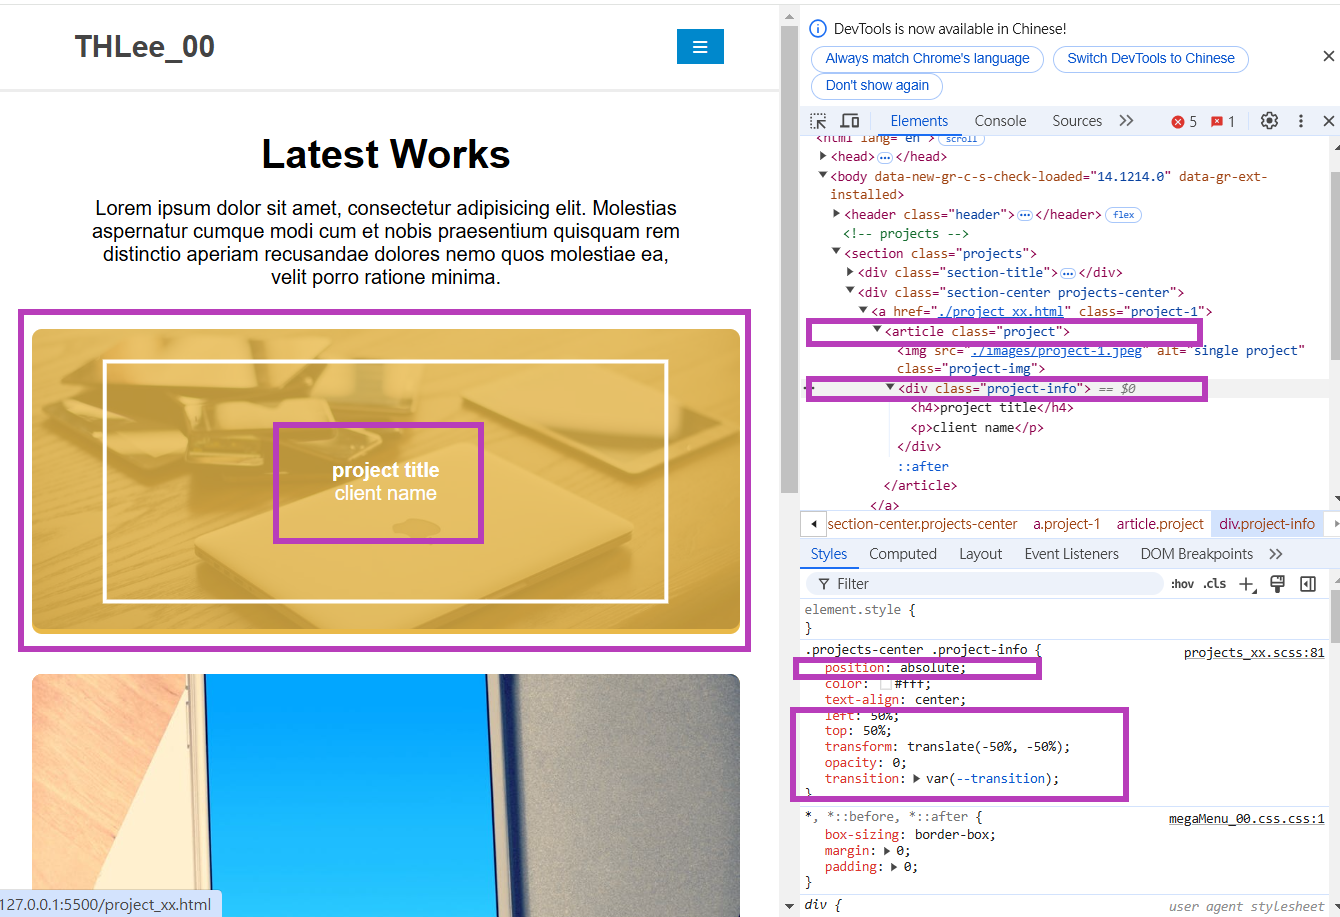
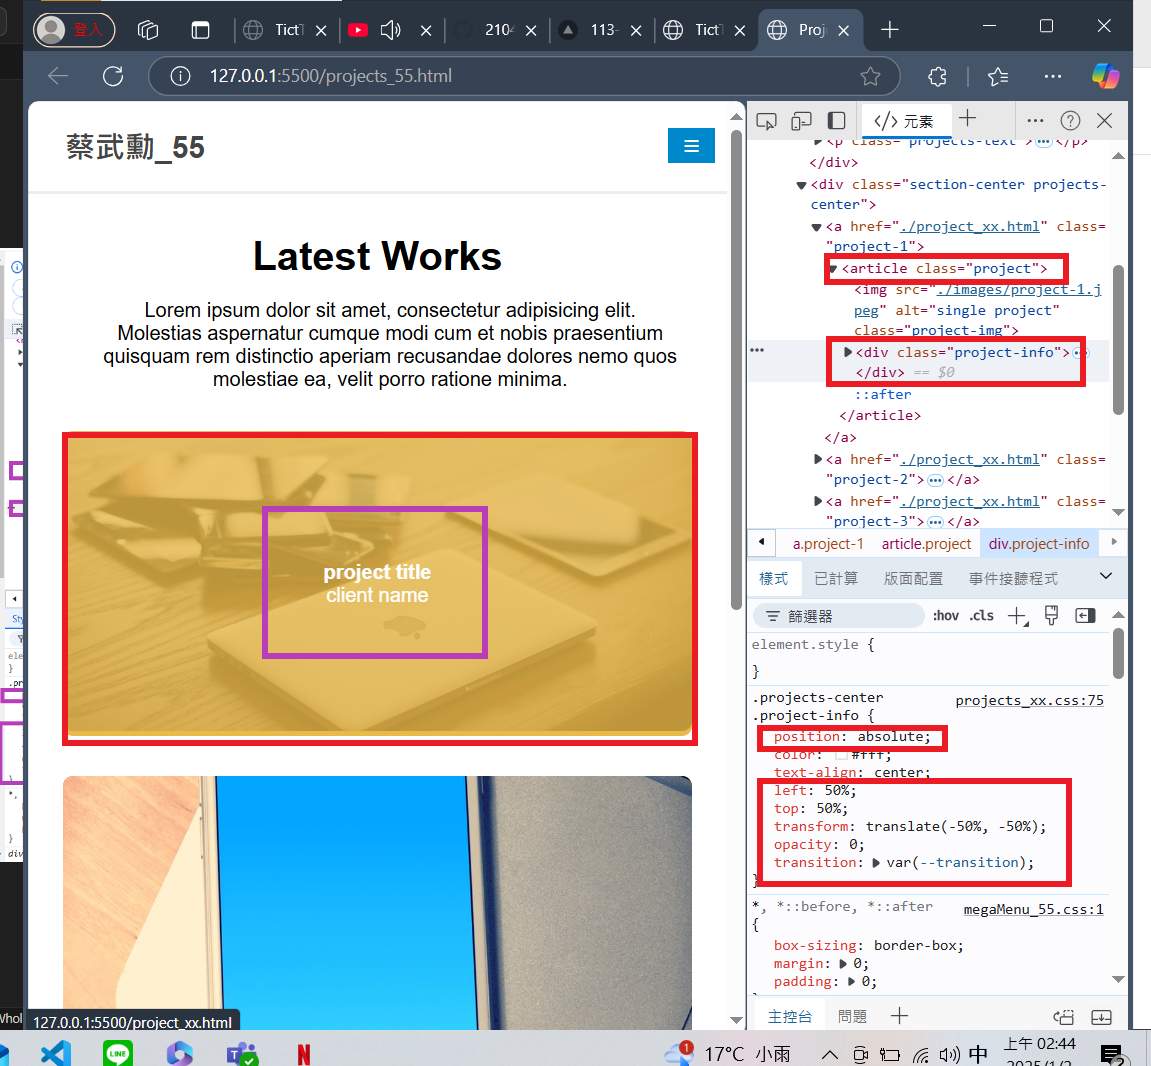
W15-P4: show absolute positioning in project_xx.html

diff --git a/projects_55.html b/projects_55.html
@@ -13,7 +13,7 @@
       referrerpolicy="no-referrer"
     />
     <link rel="stylesheet" href="./css/all.min.css" />
-    <link rel="stylesheet" href="./css/megaMenu_00.css.css" />
+    <link rel="stylesheet" href="./css/megaMenu_55.css" />
     <link rel="stylesheet" href="./css/projects_xx.css" />
     <title>Projects Absolute Positioning Demo</title>
   </head>
@@ -22,7 +22,7 @@
       <div class="header-row container" role="navigation" aria-label="Main">
         <div class="header-left">
           <div class="logo">
-            <h1>Sean_00</h1>
+            <h1>蔡武勳_55</h1>
           </div>
         </div>
         <div class="header-right">
@@ -244,6 +244,6 @@
       </div>
     </section>
 
-    <script src="./js/megaMenu_00.js.js"></script>
+    <script src="./js/megaMenu_55.js"></script>
   </body>
 </html>
